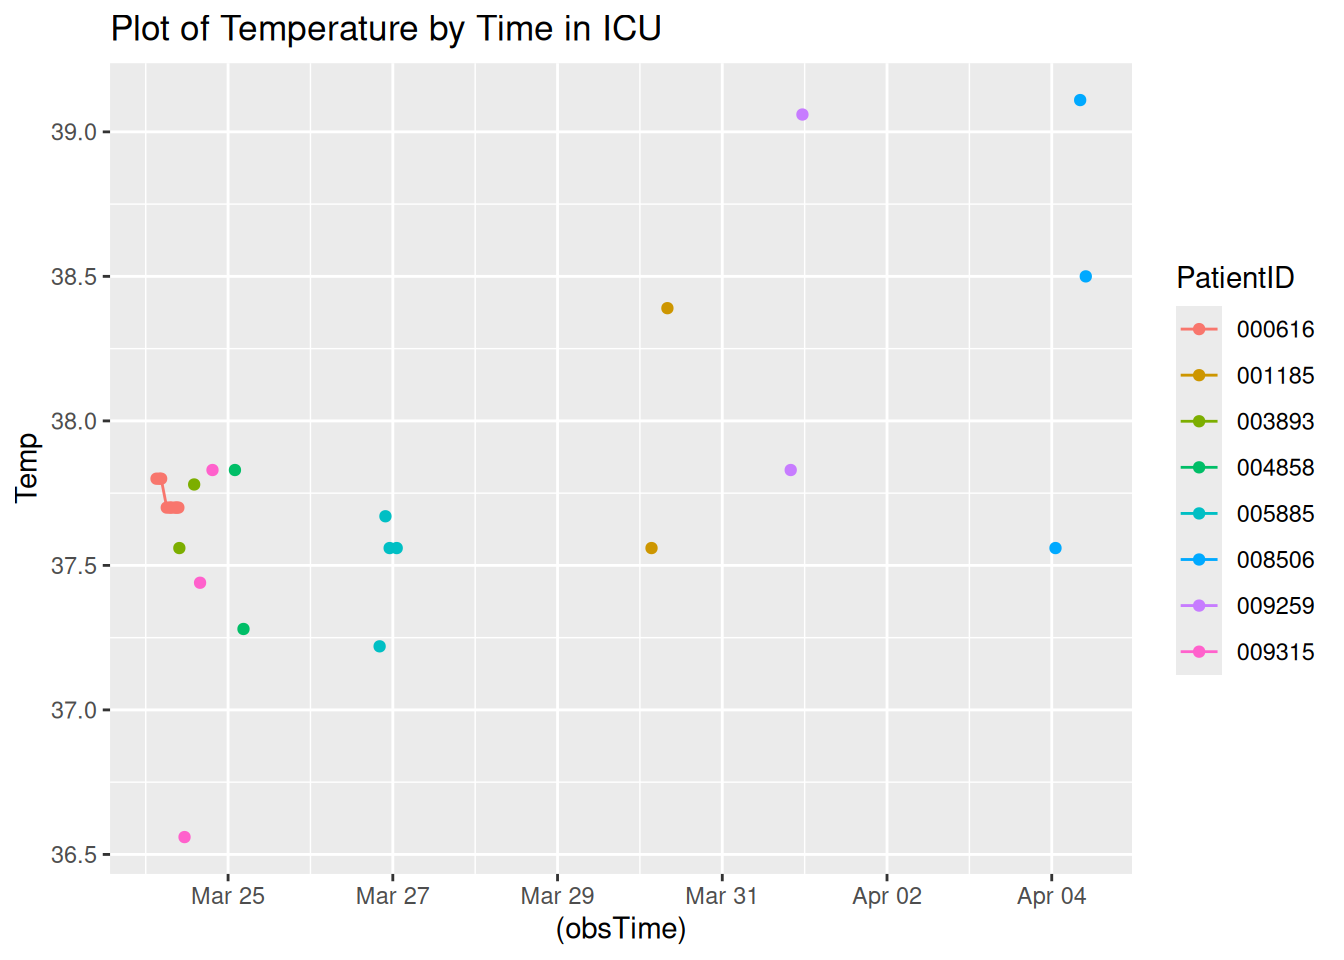
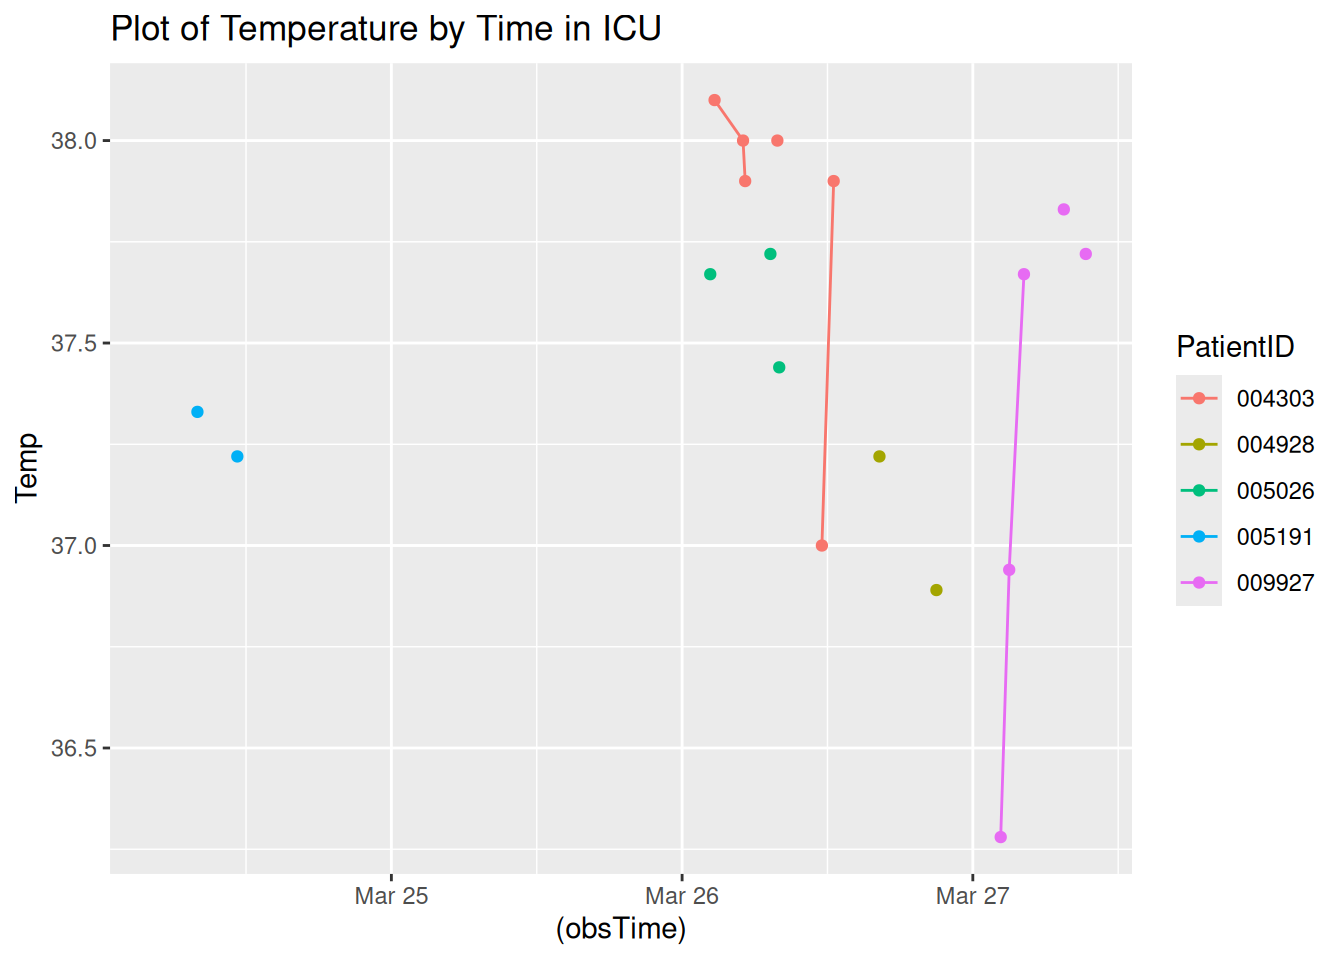
Updated report

diff --git a/A7.html b/A7.html
@@ -116,7 +116,7 @@ pre > code.sourceCode > span > a:first-child::before { text-decoration: underlin
 </div>
 <div class="sourceCode cell-code" id="cb4"><pre class="sourceCode r code-with-copy"><code class="sourceCode r"><span id="cb4-1"><a href="#cb4-1" aria-hidden="true" tabindex="-1"></a><span class="fu">toc</span>()</span></code><button title="Copy to Clipboard" class="code-copy-button"><i class="bi"></i></button></pre></div>
 <div class="cell-output cell-output-stdout">
-<pre><code>9.674 sec elapsed</code></pre>
+<pre><code>21.221 sec elapsed</code></pre>
 </div>
 <div class="sourceCode cell-code" id="cb6"><pre class="sourceCode r code-with-copy"><code class="sourceCode r"><span id="cb6-1"><a href="#cb6-1" aria-hidden="true" tabindex="-1"></a><span class="fu">tic</span>()</span>
 <span id="cb6-2"><a href="#cb6-2" aria-hidden="true" tabindex="-1"></a>test1<span class="ot">=</span><span class="fu">makeSepsisDataset</span>(<span class="at">n=</span><span class="dv">50</span>,<span class="at">read_fn =</span> <span class="st">"read_delim"</span>)</span>
@@ -126,7 +126,7 @@ pre > code.sourceCode > span > a:first-child::before { text-decoration: underlin
 </div>
 <div class="sourceCode cell-code" id="cb8"><pre class="sourceCode r code-with-copy"><code class="sourceCode r"><span id="cb8-1"><a href="#cb8-1" aria-hidden="true" tabindex="-1"></a><span class="fu">toc</span>()</span></code><button title="Copy to Clipboard" class="code-copy-button"><i class="bi"></i></button></pre></div>
 <div class="cell-output cell-output-stdout">
-<pre><code>7.814 sec elapsed</code></pre>
+<pre><code>19.636 sec elapsed</code></pre>
 </div>
 <div class="sourceCode cell-code" id="cb10"><pre class="sourceCode r code-with-copy"><code class="sourceCode r"><span id="cb10-1"><a href="#cb10-1" aria-hidden="true" tabindex="-1"></a><span class="co"># n=100</span></span>
 <span id="cb10-2"><a href="#cb10-2" aria-hidden="true" tabindex="-1"></a><span class="fu">tic</span>()</span>
@@ -137,7 +137,7 @@ pre > code.sourceCode > span > a:first-child::before { text-decoration: underlin
 </div>
 <div class="sourceCode cell-code" id="cb12"><pre class="sourceCode r code-with-copy"><code class="sourceCode r"><span id="cb12-1"><a href="#cb12-1" aria-hidden="true" tabindex="-1"></a><span class="fu">toc</span>()</span></code><button title="Copy to Clipboard" class="code-copy-button"><i class="bi"></i></button></pre></div>
 <div class="cell-output cell-output-stdout">
-<pre><code>11.105 sec elapsed</code></pre>
+<pre><code>36.918 sec elapsed</code></pre>
 </div>
 <div class="sourceCode cell-code" id="cb14"><pre class="sourceCode r code-with-copy"><code class="sourceCode r"><span id="cb14-1"><a href="#cb14-1" aria-hidden="true" tabindex="-1"></a><span class="fu">tic</span>()</span>
 <span id="cb14-2"><a href="#cb14-2" aria-hidden="true" tabindex="-1"></a>test1<span class="ot">=</span><span class="fu">makeSepsisDataset</span>(<span class="at">n=</span><span class="dv">100</span>,<span class="at">read_fn =</span> <span class="st">"read_delim"</span>)</span>
@@ -147,7 +147,7 @@ pre > code.sourceCode > span > a:first-child::before { text-decoration: underlin
 </div>
 <div class="sourceCode cell-code" id="cb16"><pre class="sourceCode r code-with-copy"><code class="sourceCode r"><span id="cb16-1"><a href="#cb16-1" aria-hidden="true" tabindex="-1"></a><span class="fu">toc</span>()</span></code><button title="Copy to Clipboard" class="code-copy-button"><i class="bi"></i></button></pre></div>
 <div class="cell-output cell-output-stdout">
-<pre><code>14.417 sec elapsed</code></pre>
+<pre><code>38.718 sec elapsed</code></pre>
 </div>
 <div class="sourceCode cell-code" id="cb18"><pre class="sourceCode r code-with-copy"><code class="sourceCode r"><span id="cb18-1"><a href="#cb18-1" aria-hidden="true" tabindex="-1"></a><span class="co"># n=500</span></span>
 <span id="cb18-2"><a href="#cb18-2" aria-hidden="true" tabindex="-1"></a><span class="fu">tic</span>()</span>
@@ -158,7 +158,7 @@ pre > code.sourceCode > span > a:first-child::before { text-decoration: underlin
 </div>
 <div class="sourceCode cell-code" id="cb20"><pre class="sourceCode r code-with-copy"><code class="sourceCode r"><span id="cb20-1"><a href="#cb20-1" aria-hidden="true" tabindex="-1"></a><span class="fu">toc</span>()</span></code><button title="Copy to Clipboard" class="code-copy-button"><i class="bi"></i></button></pre></div>
 <div class="cell-output cell-output-stdout">
-<pre><code>56.284 sec elapsed</code></pre>
+<pre><code>187.533 sec elapsed</code></pre>
 </div>
 <div class="sourceCode cell-code" id="cb22"><pre class="sourceCode r code-with-copy"><code class="sourceCode r"><span id="cb22-1"><a href="#cb22-1" aria-hidden="true" tabindex="-1"></a><span class="fu">tic</span>()</span>
 <span id="cb22-2"><a href="#cb22-2" aria-hidden="true" tabindex="-1"></a>test1<span class="ot">=</span><span class="fu">makeSepsisDataset</span>(<span class="at">n=</span><span class="dv">500</span>,<span class="at">read_fn =</span> <span class="st">"read_delim"</span>)</span>
@@ -168,7 +168,7 @@ pre > code.sourceCode > span > a:first-child::before { text-decoration: underlin
 </div>
 <div class="sourceCode cell-code" id="cb24"><pre class="sourceCode r code-with-copy"><code class="sourceCode r"><span id="cb24-1"><a href="#cb24-1" aria-hidden="true" tabindex="-1"></a><span class="fu">toc</span>()</span></code><button title="Copy to Clipboard" class="code-copy-button"><i class="bi"></i></button></pre></div>
 <div class="cell-output cell-output-stdout">
-<pre><code>71.569 sec elapsed</code></pre>
+<pre><code>195.48 sec elapsed</code></pre>
 </div>
 </div>
 <p><strong>Task 3</strong></p>
@@ -194,7 +194,7 @@ pre > code.sourceCode > span > a:first-child::before { text-decoration: underlin
 <span id="cb28-4"><a href="#cb28-4" aria-hidden="true" tabindex="-1"></a></span>
 <span id="cb28-5"><a href="#cb28-5" aria-hidden="true" tabindex="-1"></a><span class="fu">Sys.time</span>()</span></code><button title="Copy to Clipboard" class="code-copy-button"><i class="bi"></i></button></pre></div>
 <div class="cell-output cell-output-stdout">
-<pre><code>[1] "2025-03-24 03:09:02 UTC"</code></pre>
+<pre><code>[1] "2025-03-24 04:36:45 UTC"</code></pre>
 </div>
 <div class="sourceCode cell-code" id="cb30"><pre class="sourceCode r code-with-copy"><code class="sourceCode r"><span id="cb30-1"><a href="#cb30-1" aria-hidden="true" tabindex="-1"></a>dfnew <span class="ot">&lt;-</span> df <span class="sc">%&gt;%</span></span>
 <span id="cb30-2"><a href="#cb30-2" aria-hidden="true" tabindex="-1"></a>  <span class="fu">subset</span>(SepsisLabel<span class="sc">==</span><span class="dv">1</span>)</span>
@@ -223,76 +223,49 @@ pre > code.sourceCode > span > a:first-child::before { text-decoration: underlin
 </thead>
 <tbody>
 <tr class="odd">
-<td style="text-align: left;">000616</td>
-<td style="text-align: right;">8</td>
-<td style="text-align: right;">85</td>
-<td style="text-align: right;">37.70</td>
-<td style="text-align: right;">15</td>
-<td style="text-align: right;">1</td>
-<td style="text-align: left;">2025-03-24 09:30:39</td>
-</tr>
-<tr class="even">
-<td style="text-align: left;">001185</td>
-<td style="text-align: right;">151</td>
-<td style="text-align: right;">89</td>
-<td style="text-align: right;">NA</td>
-<td style="text-align: right;">24</td>
-<td style="text-align: right;">1</td>
-<td style="text-align: left;">2025-03-30 09:12:58</td>
-</tr>
-<tr class="odd">
-<td style="text-align: left;">003893</td>
-<td style="text-align: right;">14</td>
-<td style="text-align: right;">110</td>
-<td style="text-align: right;">NA</td>
-<td style="text-align: right;">22</td>
-<td style="text-align: right;">1</td>
-<td style="text-align: left;">2025-03-24 17:00:07</td>
-</tr>
-<tr class="even">
-<td style="text-align: left;">004858</td>
-<td style="text-align: right;">29</td>
-<td style="text-align: right;">65</td>
+<td style="text-align: left;">004303</td>
+<td style="text-align: right;">57</td>
+<td style="text-align: right;">105</td>
 <td style="text-align: right;">NA</td>
 <td style="text-align: right;">16</td>
 <td style="text-align: right;">1</td>
-<td style="text-align: left;">2025-03-25 07:26:29</td>
-</tr>
-<tr class="odd">
-<td style="text-align: left;">005885</td>
-<td style="text-align: right;">72</td>
-<td style="text-align: right;">88</td>
-<td style="text-align: right;">NA</td>
-<td style="text-align: right;">30</td>
-<td style="text-align: right;">1</td>
-<td style="text-align: left;">2025-03-27 02:11:19</td>
+<td style="text-align: left;">2025-03-26 12:48:17</td>
 </tr>
 <tr class="even">
-<td style="text-align: left;">008506</td>
-<td style="text-align: right;">271</td>
-<td style="text-align: right;">118</td>
-<td style="text-align: right;">38.50</td>
+<td style="text-align: left;">004928</td>
+<td style="text-align: right;">66</td>
+<td style="text-align: right;">97</td>
+<td style="text-align: right;">NA</td>
+<td style="text-align: right;">24</td>
+<td style="text-align: right;">1</td>
+<td style="text-align: left;">2025-03-26 22:27:16</td>
+</tr>
+<tr class="odd">
+<td style="text-align: left;">005026</td>
+<td style="text-align: right;">55</td>
+<td style="text-align: right;">98</td>
+<td style="text-align: right;">NA</td>
+<td style="text-align: right;">NA</td>
+<td style="text-align: right;">1</td>
+<td style="text-align: left;">2025-03-26 11:31:06</td>
+</tr>
+<tr class="even">
+<td style="text-align: left;">005191</td>
+<td style="text-align: right;">7</td>
+<td style="text-align: right;">121</td>
+<td style="text-align: right;">NA</td>
+<td style="text-align: right;">15</td>
+<td style="text-align: right;">1</td>
+<td style="text-align: left;">2025-03-24 11:22:43</td>
+</tr>
+<tr class="odd">
+<td style="text-align: left;">009927</td>
+<td style="text-align: right;">77</td>
+<td style="text-align: right;">88</td>
+<td style="text-align: right;">37.72</td>
 <td style="text-align: right;">27</td>
 <td style="text-align: right;">1</td>
-<td style="text-align: left;">2025-04-04 09:55:07</td>
-</tr>
-<tr class="odd">
-<td style="text-align: left;">009259</td>
-<td style="text-align: right;">192</td>
-<td style="text-align: right;">101</td>
-<td style="text-align: right;">NA</td>
-<td style="text-align: right;">19</td>
-<td style="text-align: right;">1</td>
-<td style="text-align: left;">2025-04-01 00:46:30</td>
-</tr>
-<tr class="even">
-<td style="text-align: left;">009315</td>
-<td style="text-align: right;">18</td>
-<td style="text-align: right;">112</td>
-<td style="text-align: right;">37.83</td>
-<td style="text-align: right;">34</td>
-<td style="text-align: right;">1</td>
-<td style="text-align: left;">2025-03-24 19:27:20</td>
+<td style="text-align: left;">2025-03-27 09:19:30</td>
 </tr>
 </tbody>
 </table>
